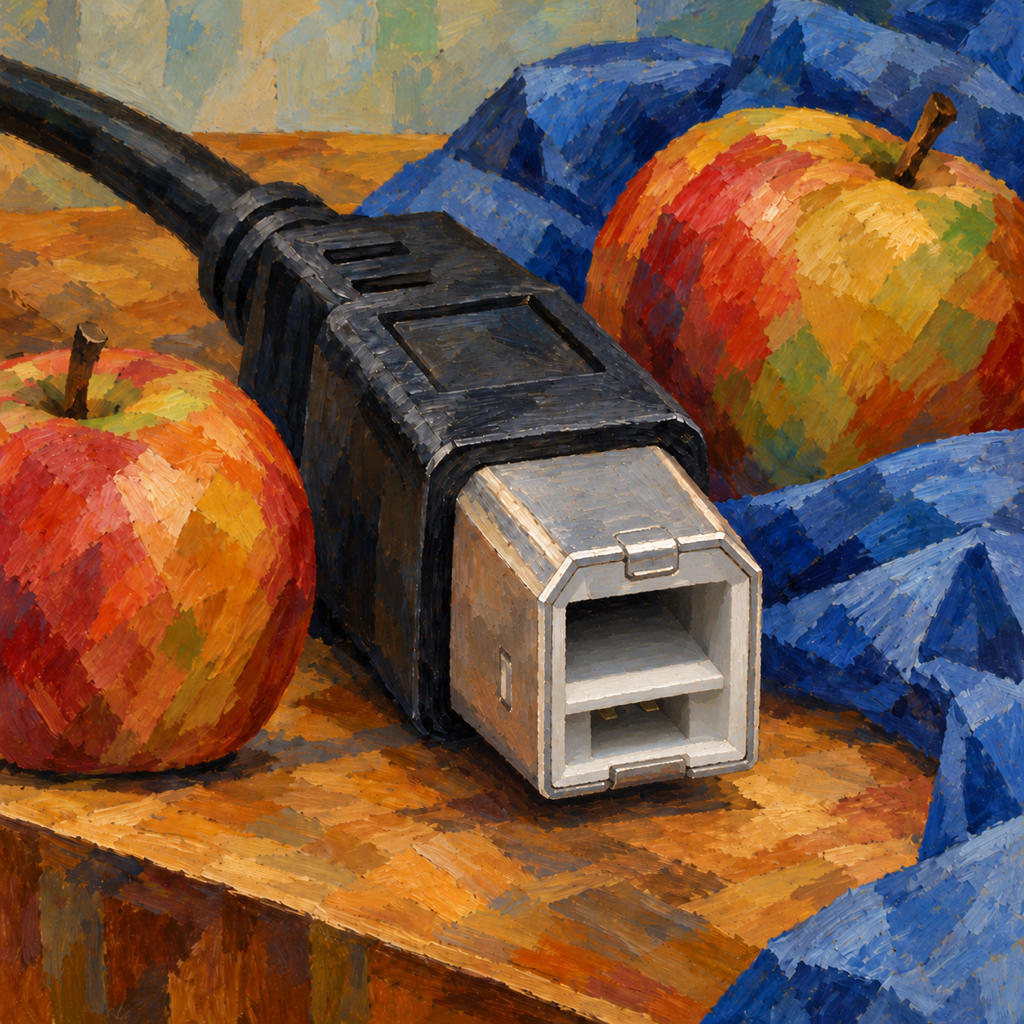
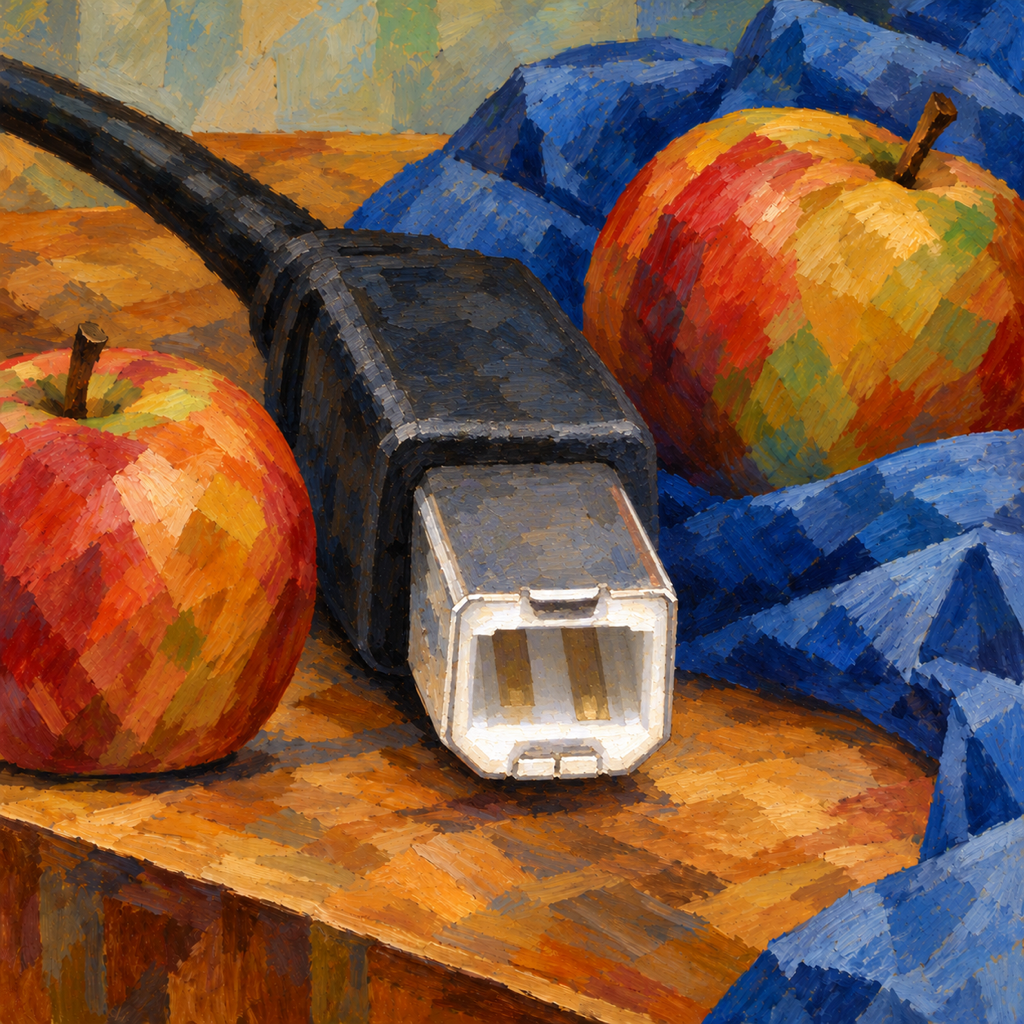
Match USB-B proportions and visible contacts to new reference photo

diff --git a/images/CREDITS.md b/images/CREDITS.md
@@ -31,7 +31,7 @@ listed in [`ROSTER.md`](ROSTER.md); none is a reproduction of the original artwo
 | 21-digital-stage-box.png | OpenAI built-in image generation | 2026-10-26 | No; visual feature check only |
 | 23-usb-a.png | OpenAI built-in image generation | 2026-10-26 | No; visual feature check only |
 
-| 24-usb-b-2-0.png | OpenAI built-in image generation; photo-based correction | 2026-10-26 | Compared visually with two instructor-supplied connector photos; instructor review pending |
+| 24-usb-b-2-0.png | OpenAI built-in image generation; photo-based correction | 2026-10-26 | Rebuilt against latest instructor-supplied photo for proportions and visible contacts; instructor review pending |
 | 26-usb-micro-b.png | OpenAI built-in image generation | 2026-10-26 | No; visual feature check only |
 | 28-usb-c.png | OpenAI built-in image generation | 2026-10-26 | No; visual feature check only |
 | 33-hdmi.png | OpenAI built-in image generation | 2026-10-26 | No; visual feature check only |

diff --git a/docs/visual-checks.md b/docs/visual-checks.md
@@ -72,3 +72,7 @@ Final PNGs are 1024 × 1024 without visible text or logos. MIDI remains unchange
 ## USB-B photo-based correction
 
 24-usb-b-2-0.png was revised against two instructor-supplied photos. The mating end now has a recessed cavity and white plastic bridge, without exposed upper contact teeth. Contacts are mostly obscured at this viewing angle; the earlier four-visible-contact claim is withdrawn. Square 1024 × 1024 PNG; no visible text or logos. Instructor review pending.
+
+## USB-B proportions: latest correction
+
+Supersedes the prior USB-B bridge revision, which the instructor rejected. The latest supplied photo is the technical reference. The image now shows a slimmer metal sleeve, photo-matched opening proportions, white insulating contour and two visible long contact strips. No horizontal shelf across the middle. Visible contacts are intentional; not all four are forced into view. Art style preserved. Instructor review pending.
